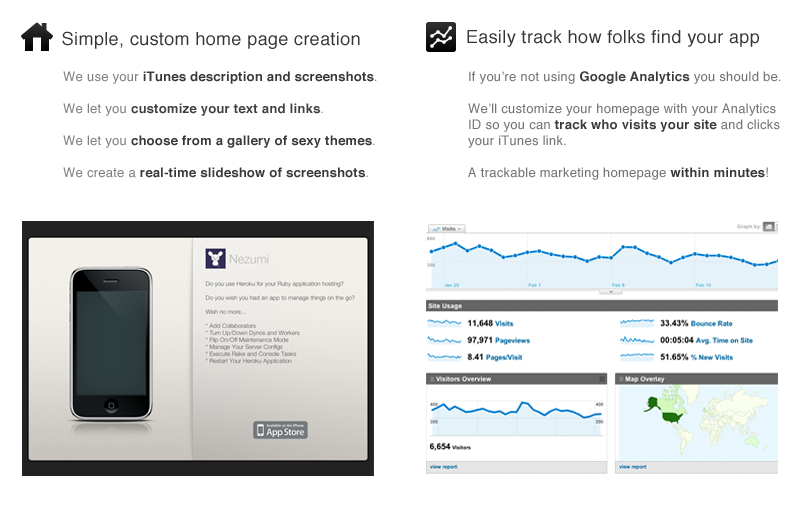
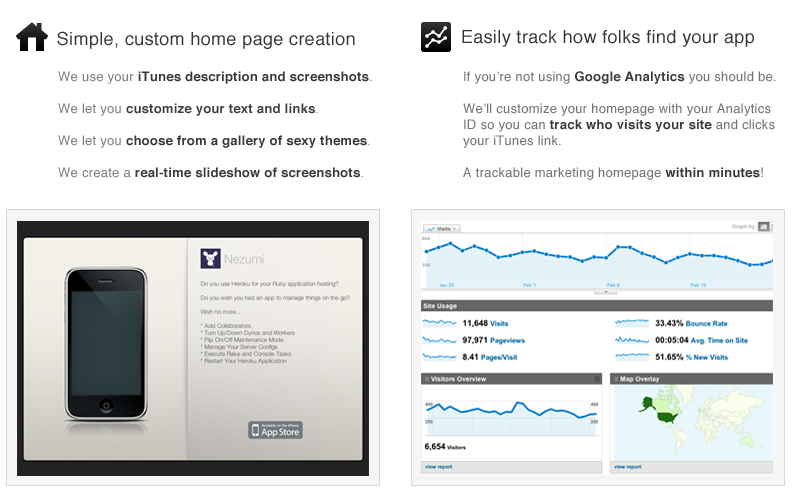
Added a sideways theme

diff --git a/public/themes/sideways/index.html b/public/themes/sideways/index.html
@@ -1,0 +1,45 @@
+<!DOCTYPE html PUBLIC "-//W3C//DTD HTML 4.01//EN">
+<html>
+	<head>
+		<title>
+			{{app.name}}
+		</title>
+		<link href="/stylesheets/themes.css" media="screen" rel="stylesheet" type="text/css">
+		<link href="/themes/sideways/stylesheets/app.css" media="screen" rel="stylesheet" type="text/css">
+		<script src="/javascripts/jquery-1.4.1.min.js" type="text/javascript"></script>
+		<script src="/javascripts/jquery.cycle.js" type="text/javascript"></script>
+		<script type="text/javascript">
+			$('#screenshots-insides').cycle({
+				fx: 'fade' // choose your transition type, ex: fade, scrollUp, shuffle, etc...
+			});
+		</script>
+	</head>
+	<body>
+		<div id="insides">
+			<div id="screenshots">
+				<ul id="screenshots-insides">
+					<li style="list-style: none">{% for screenshot in app.screenshots %}
+					</li>
+					<li class="screenshot">
+						<img src="{{screenshot}}">
+					</li>
+					<li style="list-style: none">{% endfor %}
+					</li>
+				</ul>
+			</div>
+			<div id="logo">
+				<div class="icon">
+					<img src="{{app.small_artwork_url}}">
+				</div>
+				<div class="name">{{app.name}}</div>
+			</div>
+			<div id="description">
+				{{app.print_description}}
+			</div>
+			<div id="app-store-link">
+				<a href="/itunes"></a>
+			</div>
+		</div>
+		{{footer}}
+	</body>
+</html>

diff --git a/public/themes/sideways/stylesheets/app.css b/public/themes/sideways/stylesheets/app.css
@@ -1,0 +1,32 @@
+body {
+  background: #fff url(../images/background.png) repeat-x;
+  color: #555;
+  font-family: HelveticaNeue-Light, 'Helvetica Neue Light', 'Helvetica Neue', Helvetica, sans-serif;
+  font-size: 14px;
+}
+a { color: #75588a; }
+#insides { width: 800px; margin: 30px auto; position: relative; }
+#logo { font-size: 2.5em; color: #000; margin: 0 0 30px; height: 55px; }
+#logo .icon { border: 1px solid #ccc; padding: 5px; background-color: #ddd; width: 57px; height: 57px; float: left; }
+#logo img { width: 57px; height: 57px; }
+#logo .name { float: left; margin-left: 10px; line-height: 65px; vertical-align: middle; }
+#description { width: 800px; overflow: hidden; font-size: 1.2em; margin: 20px 0; }
+#screenshots {
+  margin: 0 auto;
+  width: 514px;
+  height: 293px;
+  background: transparent url(../../../images/iphone-sideways.png) no-repeat 0 0;
+  position: relative;
+}
+#screenshots-insides { width: 294px; height: 195px; position: absolute; top: 40px; left: 108px; padding: 0; margin: 0; }
+.screenshot, .screenshot img { width: 294px; height: 195px; }
+.screenshot { list-style-type: none; }
+
+#app-store-link {  }
+#app-store-link a {
+  margin: 0 auto;
+  display: block;
+  background: transparent url(../images/app_store.png) no-repeat 0 0;
+  width: 188px;
+  height: 79px;
+}

diff --git a/public/javascripts/theme-sorter.js b/public/javascripts/theme-sorter.js
@@ -62,11 +62,8 @@ $(document).ready(function() {
       //       });
       
       $themes.quicksand($filtered_data, $preferences);
-      //console.log($themes);
-      //console.log($themes.clone().find('li.light'));
-      //$themes.quicksand($themes, $themes.clone().find('li.light'), $preferences);
       
-      
+      return false;
     });
   });
 });
